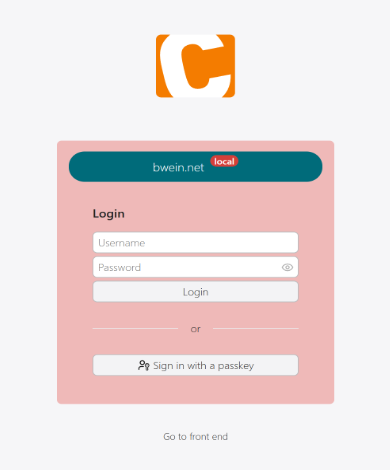
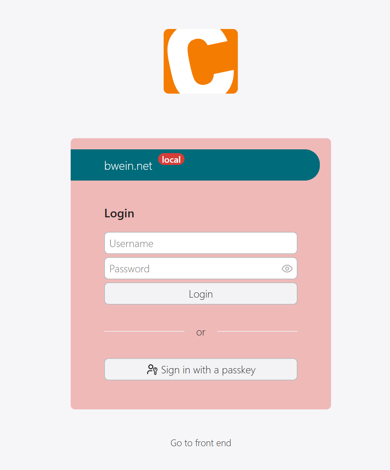
Update css

diff --git a/public/css/backend.min.css b/public/css/backend.min.css
@@ -1,1 +1,1 @@
-:root{--bwein-header-color:#f47c00;--bwein-header-color-hover:rgba(255, 255, 255, 0.1);--bwein-header-invert:0;--bwein-env-color:#0F1C26;--bwein-login-main-color:var(--bwein-main-color, #ffffff);--bwein-top-main-color:var(--bwein-main-color, #f6f6f8);--bwein-title-color:#fff;--contao:var(--bwein-header-color);--nav-active-color:var(--bwein-header-color);--nav-mobile-active-color:var(--bwein-header-color);--nav-mobile-active-border-color:var(--bwein-header-color);--nav-mobile-btn-clr:var(--bwein-header-color);--progress-running:var(--bwein-header-color);--skip-focus-border-color:var(--bwein-header-color)}html[data-color-scheme=dark]{--bwein-title-color:#ddd;--contao:var(--bwein-header-color);--body-bg:#1b1d21}#header .inner #home{display:flex;align-items:baseline;border-radius:20px;margin-left:3px}#header .inner #home .app-title{color:var(--bwein-title-color)}#header .inner #home .custom-title{border-left:1px solid var(--bwein-title-color);margin-left:7px;padding-left:7px;color:var(--bwein-title-color)}@media (max-width:767px){#header .inner #home{width:initial;text-indent:unset;overflow:unset;min-width:22px;padding:12px}#header .inner #home .app-title,#header .inner #home .custom-title{display:none!important}}#main .tl_login_form{padding-top:15px}#main .tl_login_form .custom-header{display:flex;justify-content:center;padding:13px;text-align:center;font-size:1rem;color:var(--bwein-title-color);background:#f47c00;border-radius:20px;margin:0 15px}#header .inner #home,#main .tl_login_form .custom-header{background-color:var(--bwein-header-color)}#tl_crawl .progress-bar.running,.be_main .load_bar{background-color:var(--bwein-header-color)}.env-title{align-self:start;margin-left:8px;margin-top:-8px;border-radius:8px;padding:2px 5px;background:#0f1c26;color:var(--bwein-title-color);font-size:.75rem;font-weight:600}@media (-webkit-min-device-pixel-ratio:2),(min-resolution:192dpi){.env-title{font-weight:500}}@media (max-width:767px){#header .inner a .env-title{margin-left:32px;margin-right:-25px}}.env-title{background:var(--bwein-env-color)}#main{background:var(--bwein-login-main-color)}#main .login-providers,#main .tl_login_form{background:0 0}#top #main{background:var(--bwein-top-main-color)}html[data-color-scheme=dark] #main{background:linear-gradient(rgba(0,0,0,.92),rgba(0,0,0,.92)),var(--bwein-login-main-color);background-blend-mode:normal}html[data-color-scheme=dark] #left,html[data-color-scheme=dark] #top #main{background:linear-gradient(rgba(0,0,0,.88),rgba(0,0,0,.88)),var(--bwein-top-main-color);background-blend-mode:normal}#header:has(.backend-search) .inner #home .custom-title{display:inline-block;max-width:68px;overflow:hidden;text-overflow:ellipsis;white-space:nowrap;vertical-align:middle}
+:root{--bwein-header-color:#f47c00;--bwein-header-color-hover:rgba(255, 255, 255, 0.1);--bwein-header-invert:0;--bwein-env-color:#0F1C26;--bwein-login-main-color:var(--bwein-main-color, #ffffff);--bwein-top-main-color:var(--bwein-main-color, #f6f6f8);--bwein-title-color:#fff;--contao:var(--bwein-header-color);--nav-active-color:var(--bwein-header-color);--nav-mobile-active-color:var(--bwein-header-color);--nav-mobile-active-border-color:var(--bwein-header-color);--nav-mobile-btn-clr:var(--bwein-header-color);--progress-running:var(--bwein-header-color);--skip-focus-border-color:var(--bwein-header-color)}html[data-color-scheme=dark]{--bwein-title-color:#ddd;--contao:var(--bwein-header-color);--body-bg:#1b1d21}#header .inner #home{display:flex;align-items:baseline;border-radius:0 20px 20px 0}#header .inner #home .app-title{color:var(--bwein-title-color)}#header .inner #home .custom-title{border-left:1px solid var(--bwein-title-color);margin-left:7px;padding-left:7px;color:var(--bwein-title-color)}@media (max-width:767px){#header .inner #home{width:initial;text-indent:unset;overflow:unset;min-width:22px;padding:12px}#header .inner #home .app-title,#header .inner #home .custom-title{display:none!important}}#main .tl_login_form{padding-top:15px}#main .tl_login_form .custom-header{display:flex;padding:13px 13px 13px 45px;font-size:1rem;color:var(--bwein-title-color);background:#f47c00;border-radius:0 20px 20px 0;margin-right:15px}#header .inner #home,#main .tl_login_form .custom-header{background-color:var(--bwein-header-color)}#tl_crawl .progress-bar.running,.be_main .load_bar{background-color:var(--bwein-header-color)}.env-title{align-self:start;margin-left:8px;margin-top:-8px;border-radius:8px;padding:2px 5px;background:#0f1c26;color:var(--bwein-title-color);font-size:.75rem;font-weight:600}@media (-webkit-min-device-pixel-ratio:2),(min-resolution:192dpi){.env-title{font-weight:500}}@media (max-width:767px){#header .inner a .env-title{margin-left:32px;margin-right:-25px}}.env-title{background:var(--bwein-env-color)}#main{background:var(--bwein-login-main-color)}#main .login-providers,#main .tl_login_form{background:0 0}#top #main{background:var(--bwein-top-main-color)}html[data-color-scheme=dark] #main{background:linear-gradient(rgba(0,0,0,.92),rgba(0,0,0,.92)),var(--bwein-login-main-color);background-blend-mode:normal}html[data-color-scheme=dark] #left,html[data-color-scheme=dark] #top #main{background:linear-gradient(rgba(0,0,0,.88),rgba(0,0,0,.88)),var(--bwein-top-main-color);background-blend-mode:normal}#header:has(.backend-search) .inner #home .custom-title{display:inline-block;max-width:70px;overflow:hidden;text-overflow:ellipsis;white-space:nowrap;vertical-align:middle}

diff --git a/public/css/backend.scss b/public/css/backend.scss
@@ -26,8 +26,7 @@ html[data-color-scheme="dark"] {
 
   display: flex;
   align-items: baseline;
-  border-radius: 20px;
-  margin-left: 3px;
+  border-radius: 0 20px 20px 0;
 
   .app-title {
     color: var(--bwein-title-color);
@@ -59,14 +58,12 @@ html[data-color-scheme="dark"] {
 
   .custom-header {
     display: flex;
-    justify-content: center;
-    padding: 13px;
-    text-align: center;
+    padding: 13px 13px 13px 45px;
     font-size: 1rem;
     color: var(--bwein-title-color);
     background: #f47c00;
-    border-radius: 20px;
-    margin: 0 15px;
+    border-radius: 0 20px 20px 0;
+    margin-right: 15px;
   }
 }
 
@@ -148,7 +145,7 @@ html[data-color-scheme="dark"] {
    only if .backend-search exists inside #header. */
 #header:has(.backend-search) .inner #home .custom-title {
   display: inline-block;
-  max-width: 68px;
+  max-width: 70px;
   overflow: hidden;
   text-overflow: ellipsis;
   white-space: nowrap;
